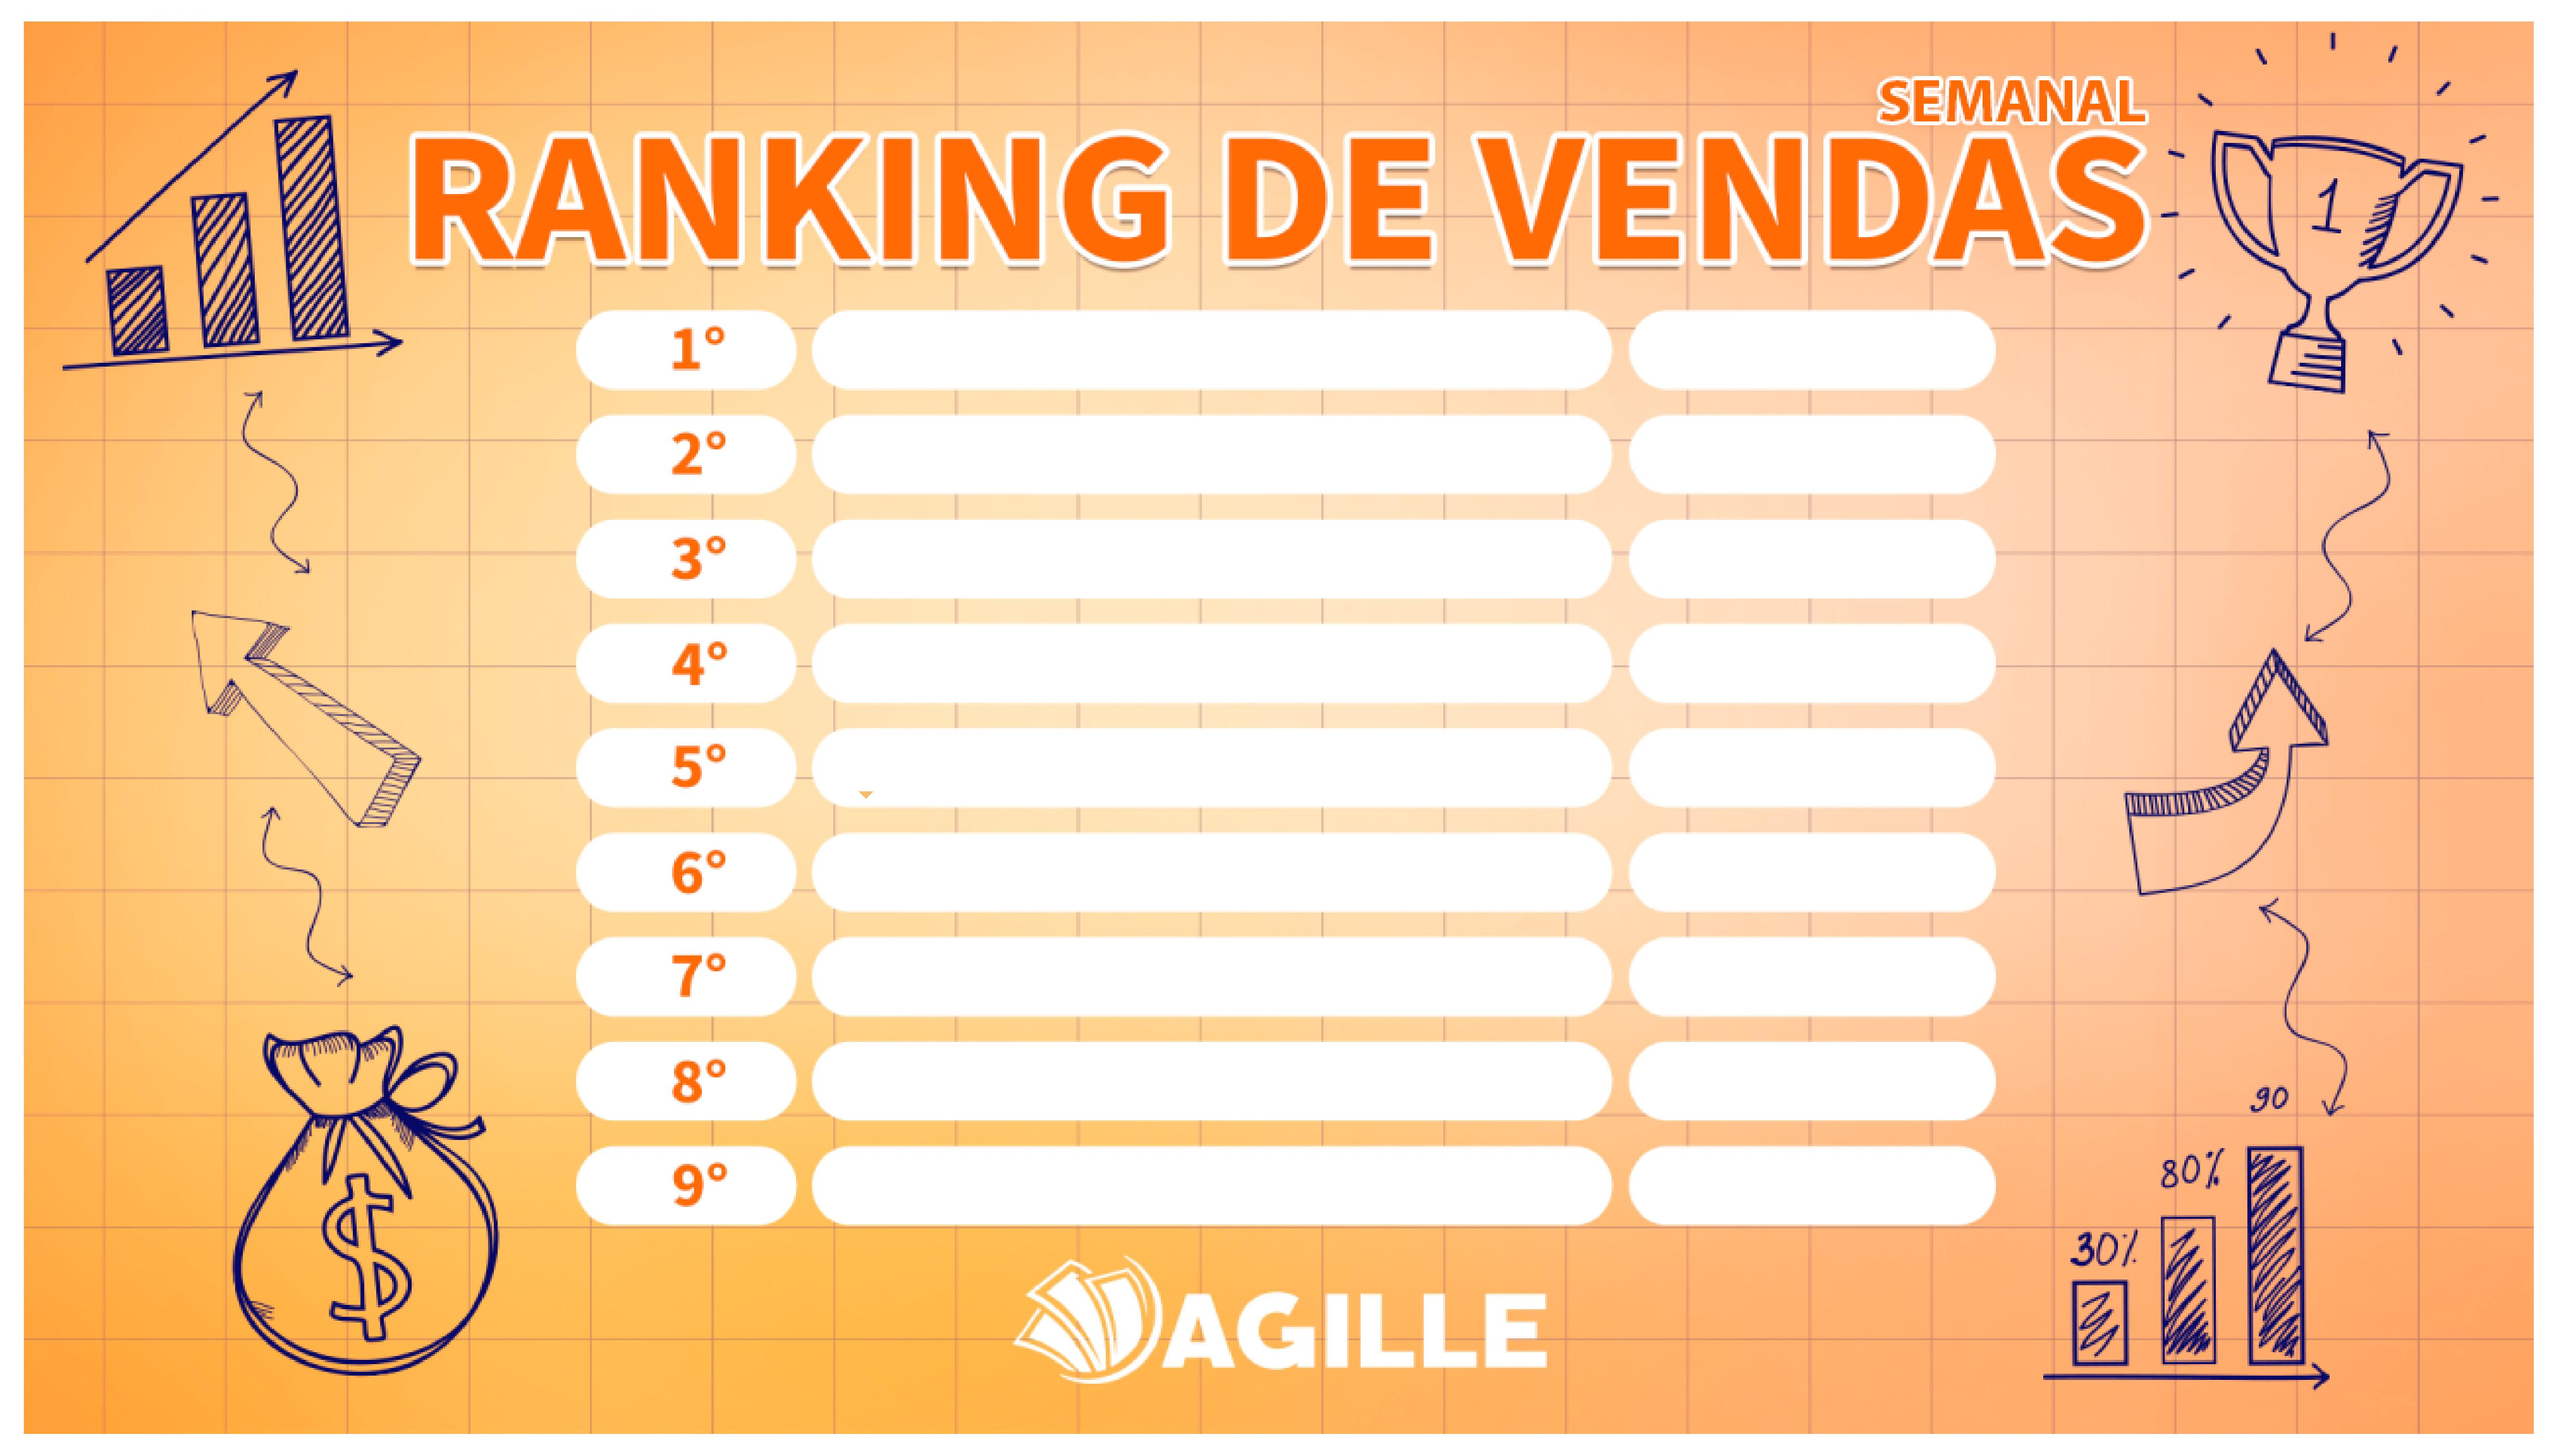
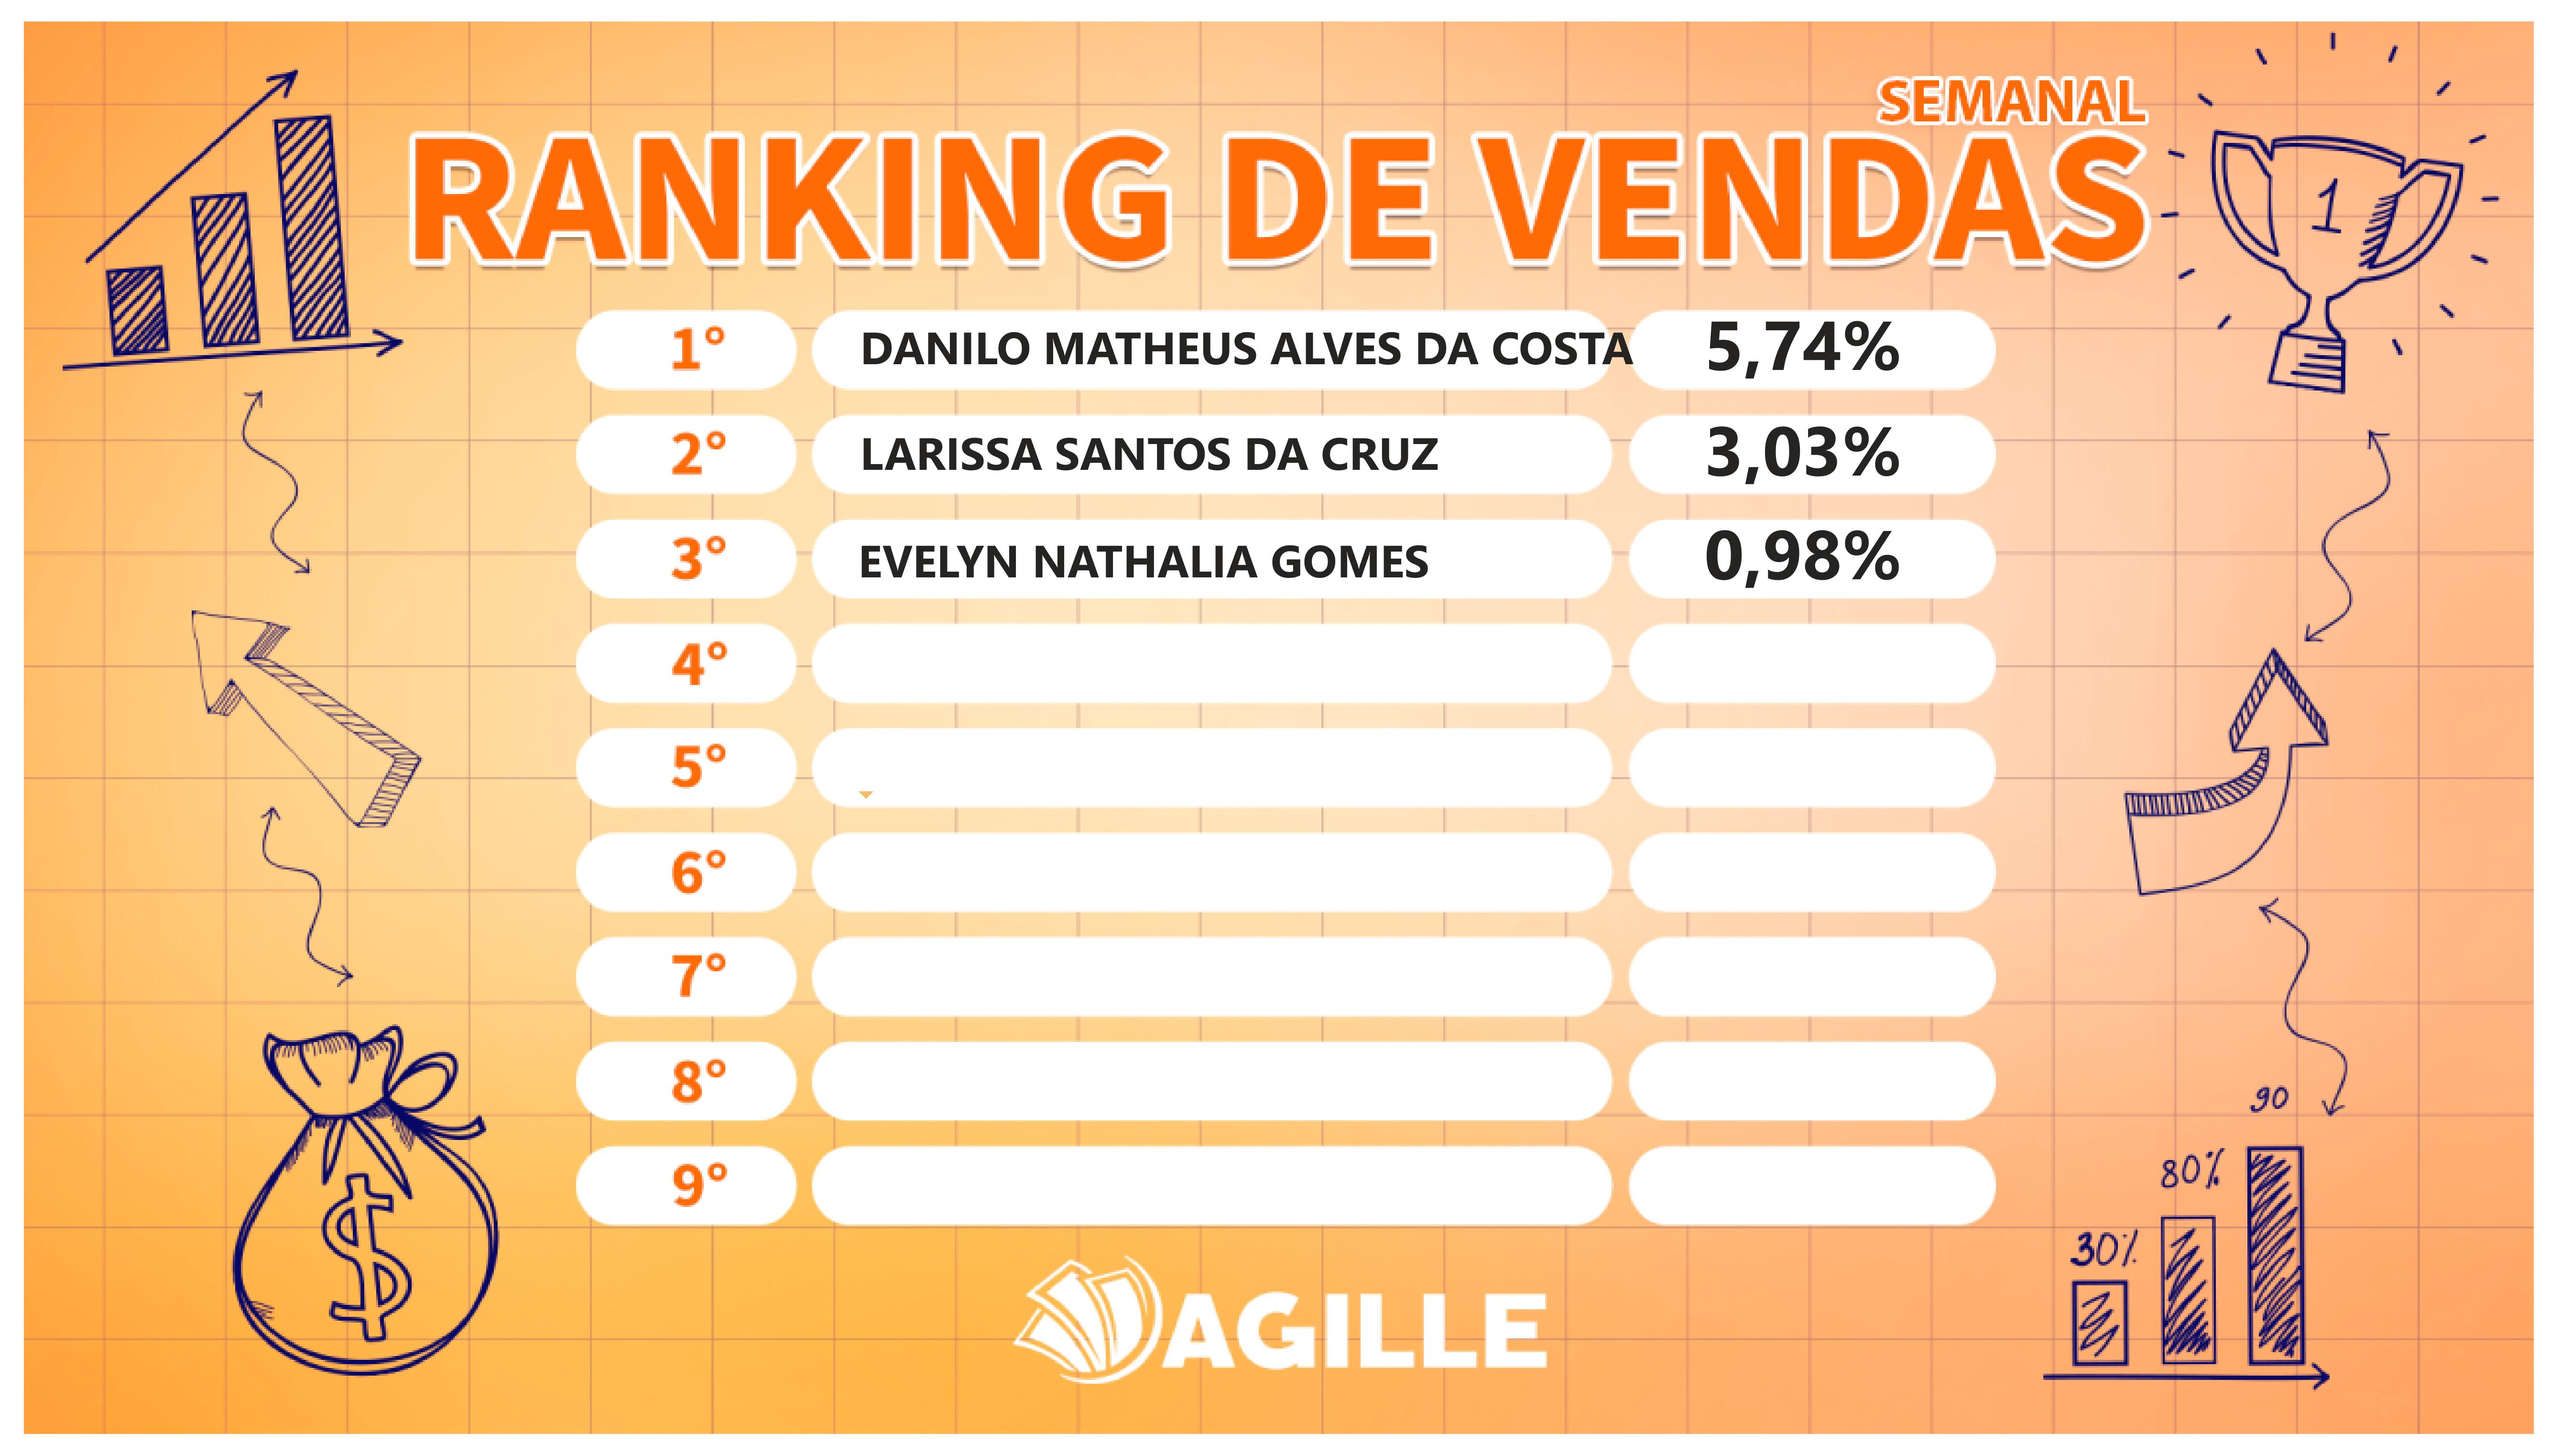
09012023²

diff --git a/index.html b/index.html
@@ -58,6 +58,9 @@
 			<div class="carousel-item" data-bs-interval="15000">
 				<img src="img/rank4.jpg" class="d-block w-100">
 			</div>
+			<div class="carousel-item" data-bs-interval="15000">
+				<img src="img/rank5.jpg" class="d-block w-100">
+			</div>
 		</div>
 		<button class="carousel-control-prev" type="button" data-bs-target="#carouselExampleFade" data-bs-slide="prev">
 		</button>
